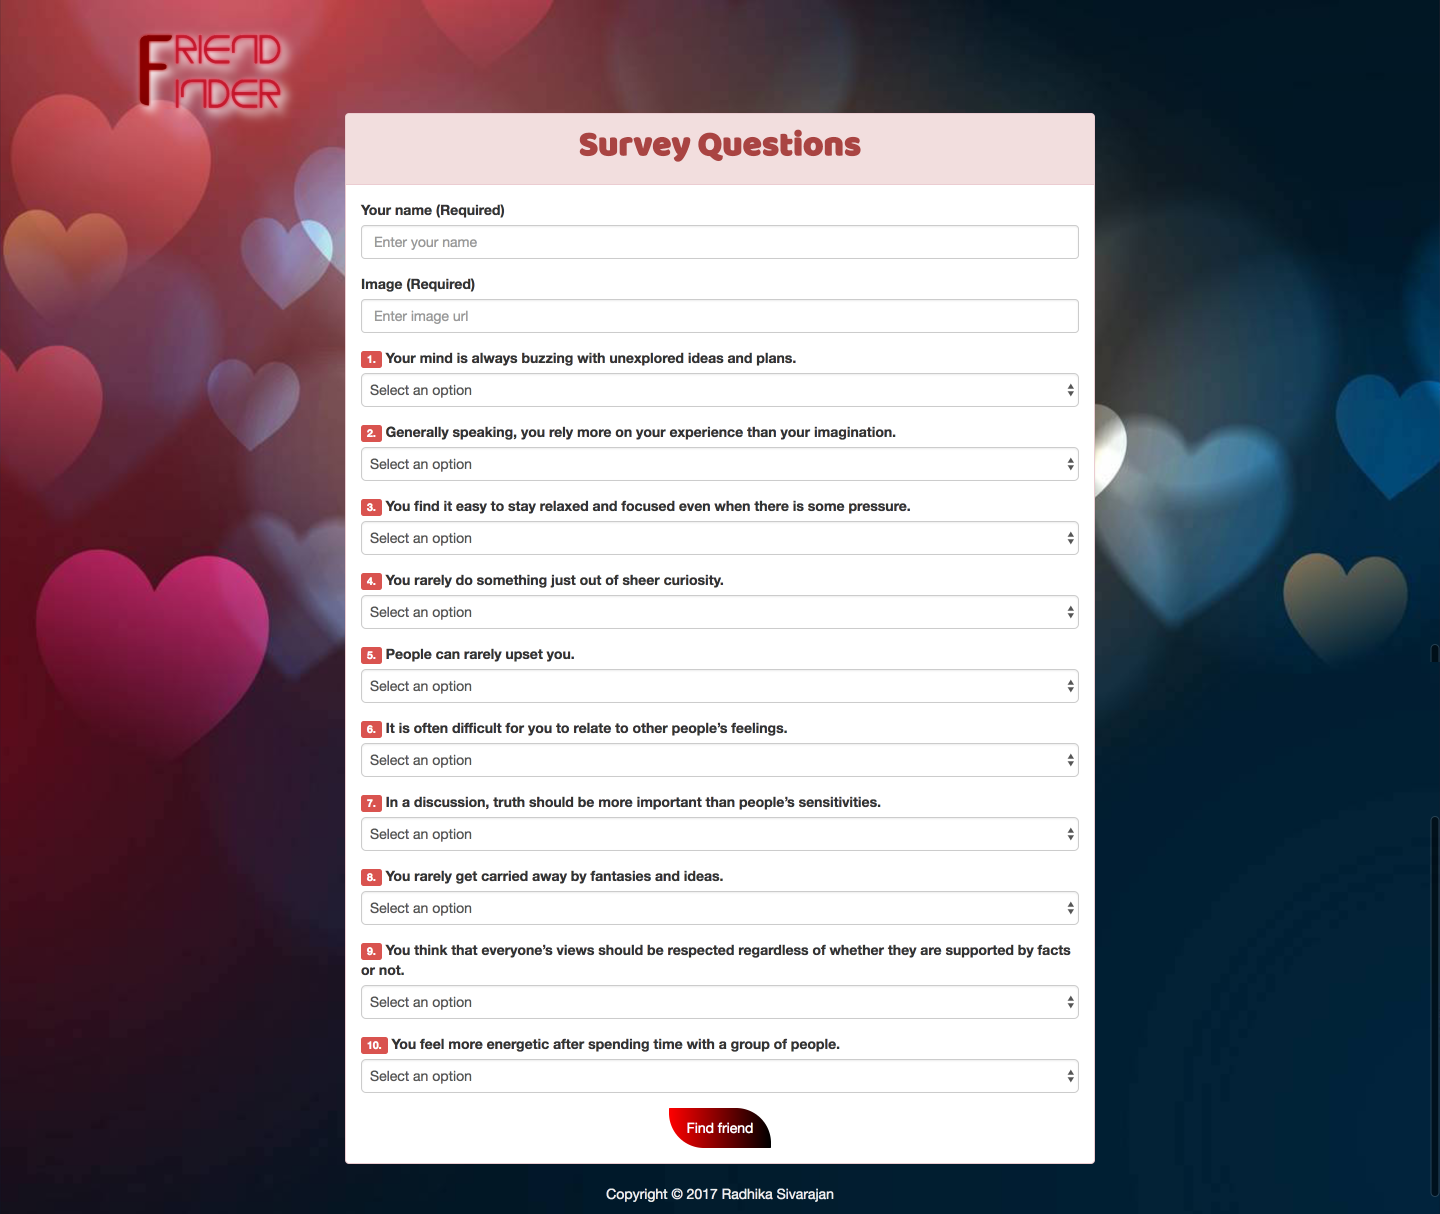
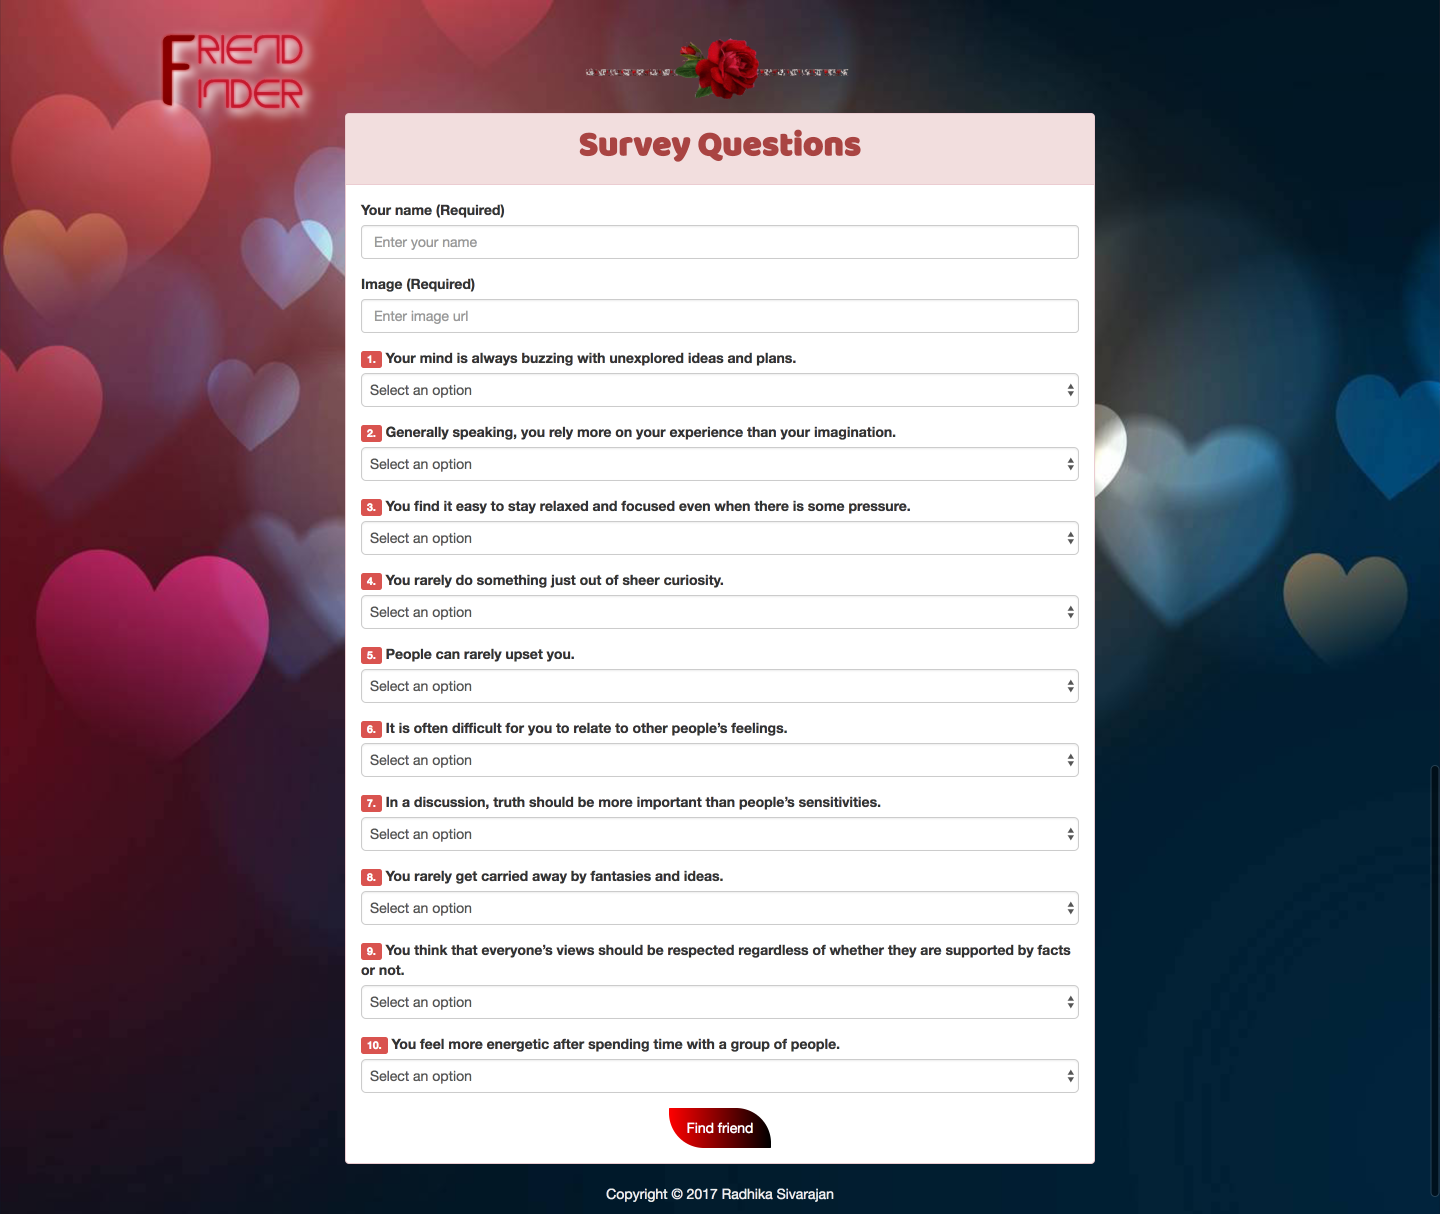
Survey page styling

Changed region(s): [[0.0938, 0.0305, 0.2188, 0.0914], [0.4688, 0.0305, 0.5312, 0.0914], [0.9688, 0.64, 1.0, 0.6705]]

diff --git a/app/public/survey.html b/app/public/survey.html
@@ -16,10 +16,15 @@
 
 <body class="survey-bg-img">
     <div class="container">
-        <div class="row survey-header">
-            <a href="/">
-                <img src="public/assets/logo.png" alt="Friend finder" class="logo" width="150px">
-            </a>
+        <div class="row survey-header text-center">
+            <div class="col-md-2">
+                <a href="/">
+                    <img src="public/assets/logo.png" alt="Friend finder" class="logo" height="83px">
+                </a>
+            </div>
+            <div class="col-md-8">
+                <img src="public/assets/survey-banner.gif" alt="Friend finder" height="80px">
+            </div>
         </div>
         <div class="row">
             <div class="col-md-8 col-md-offset-2">
